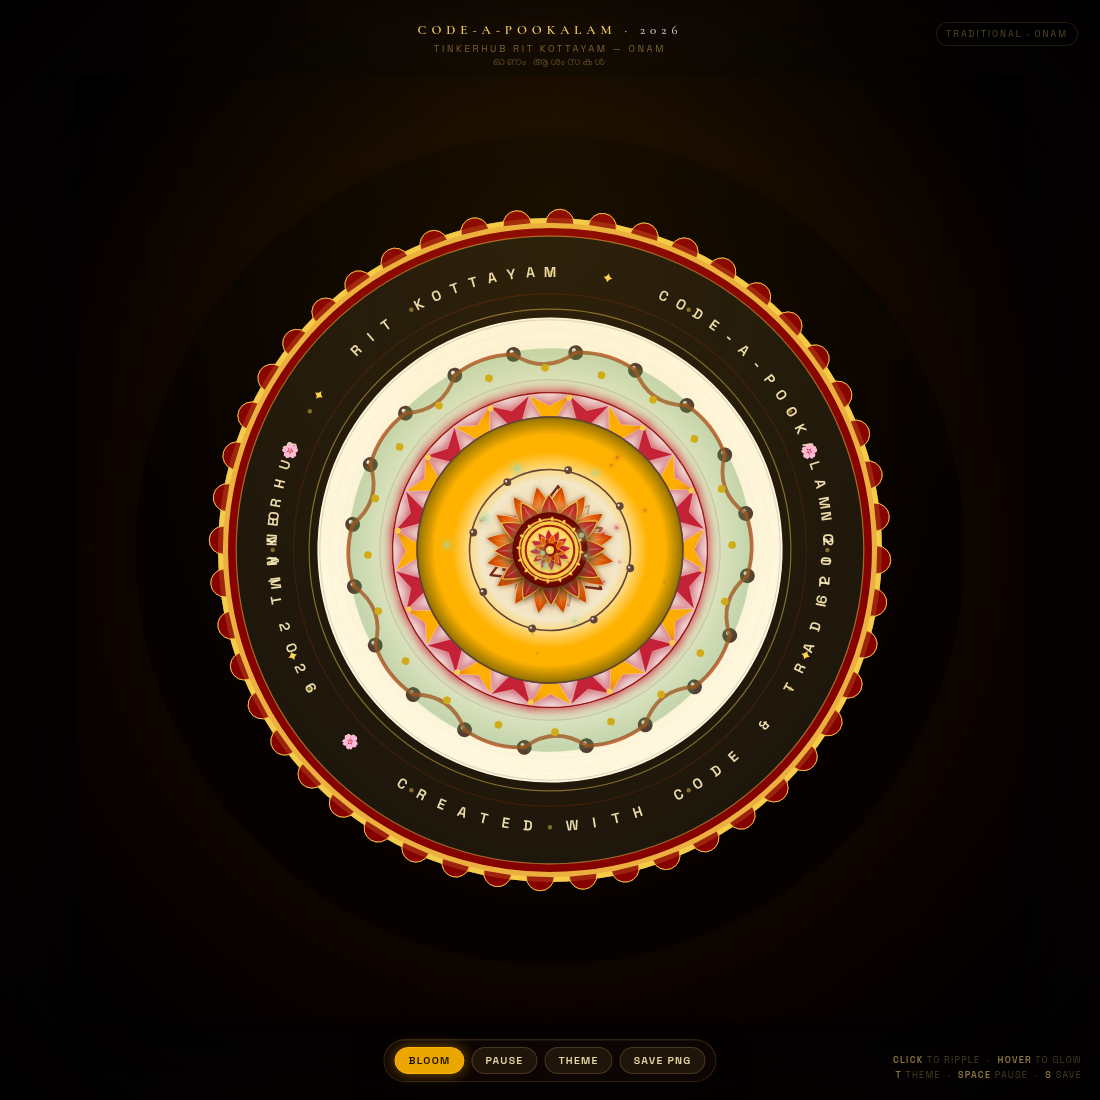
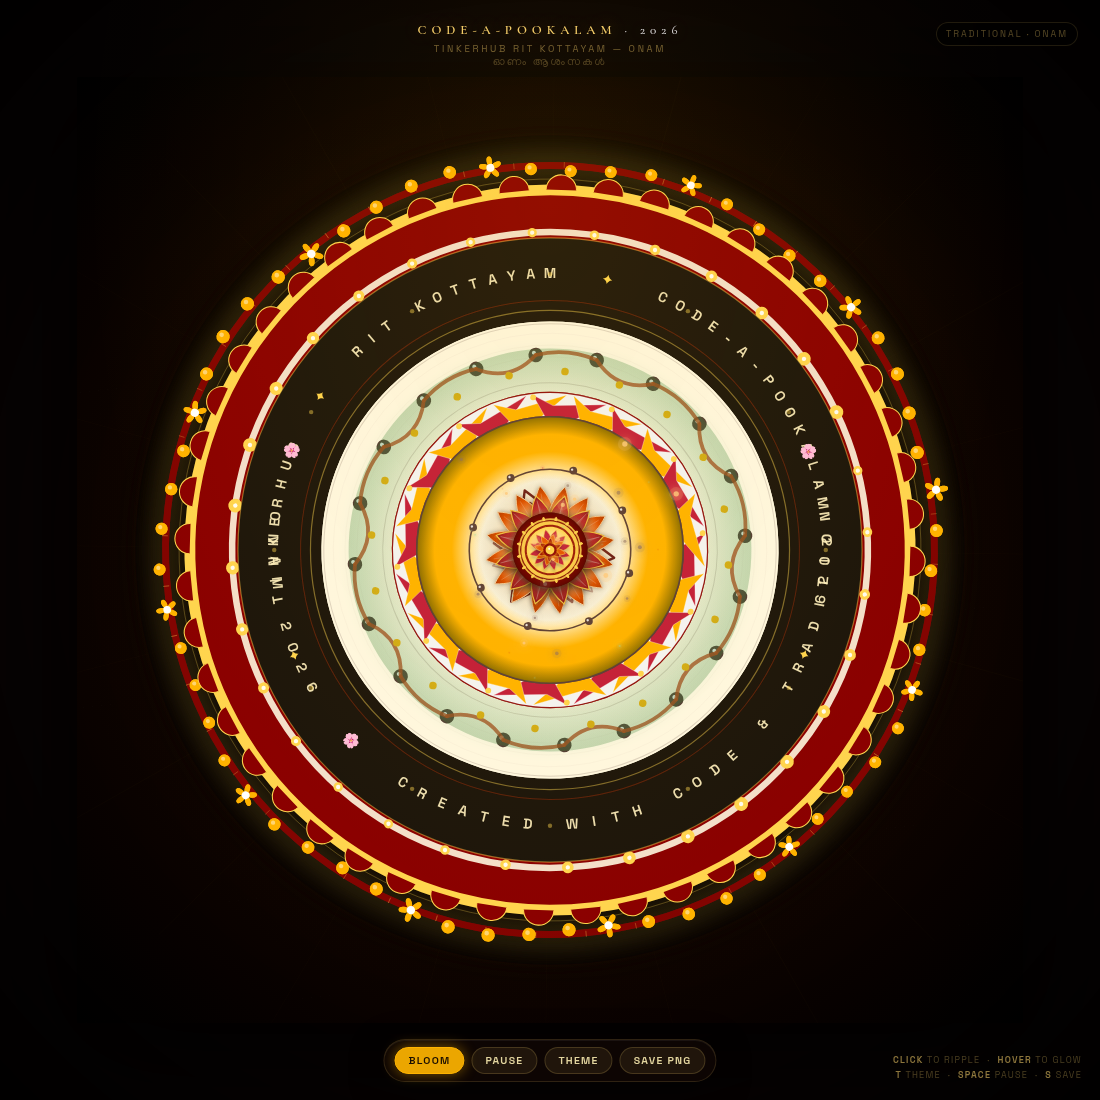
ANIMATE ALL — inner CCW: center gear + 3-layer lotus CCW, petals CCW, Sri-Yantra CCW, diamond+pulli+scallop+outer all CCW + pulsate (1141 LOC)

Changed region(s): [[0.1236, 0.1236, 0.8655, 0.8655]]

diff --git a/index.html b/index.html
@@ -287,8 +287,8 @@ function drawCenter(cx,cy,r,t,c){
   X.fillStyle = radialGrad(cx,cy, r*0.2, r, [[0,'#a80000'],[0.6,c.f],[1,'#5a0000']]);
   X.beginPath(); X.arc(cx,cy,r,0,Math.PI*2); X.fill();
   X.shadowColor='transparent';
-  // TinkerHub gear ring — 16 teeth rotating around center (maker identity, subtle)
-  X.save(); X.translate(cx,cy); X.rotate(frame*0.008);
+  // TinkerHub gear ring — 16 teeth COUNTER-CLOCKWISE (inner)
+  X.save(); X.translate(cx,cy); X.rotate(-frame*0.009);
   X.strokeStyle='rgba(255,213,79,0.85)'; X.lineWidth=r*0.045; X.fillStyle='rgba(255,213,79,0.12)';
   X.beginPath(); X.arc(0,0,r*0.82,0,Math.PI*2); X.fill(); X.stroke();
   // gear teeth
@@ -310,11 +310,11 @@ function drawCenter(cx,cy,r,t,c){
   // inner cream disc
   X.fillStyle = radialGrad(cx,cy,0,r*0.62, [[0,'#FFFDE7'],[0.5,'#FFECB3'],[1,'#FFD54F']]);
   X.beginPath(); X.arc(cx,cy,r*0.62,0,Math.PI*2); X.fill();
-  // 3-layer lotus — outer 12, mid 8, inner 6 (dense, not boring)
+  // 3-layer lotus — ALL COUNTER-CLOCKWISE, diff speeds for moiré
   const layers = [
-    {n:12, len:0.55, wid:0.13, col:'#C41E3A', rot: frame*0.006},
-    {n:8,  len:0.42, wid:0.11, col:'#E65100', rot: -frame*0.005},
-    {n:6,  len:0.32, wid:0.09, col:'#8B0000', rot: frame*0.004},
+    {n:12, len:0.55, wid:0.13, col:'#C41E3A', rot: -frame*0.007},
+    {n:8,  len:0.42, wid:0.11, col:'#E65100', rot: -frame*0.0055},
+    {n:6,  len:0.32, wid:0.09, col:'#8B0000', rot: -frame*0.009},
   ];
   layers.forEach(L=>{
     for(let i=0;i<L.n;i++){
@@ -346,7 +346,7 @@ function drawCenter(cx,cy,r,t,c){
 
 function drawPetals12(cx,cy,r,t,c){
   X.save(); X.globalAlpha=t;
-  const n=12, rot = frame*0.0045;
+  const n=12, rot = -frame*0.0055;
   for(let i=0;i<n;i++){
     const a=(i/n)*Math.PI*2 + rot;
     const dist = Math.hypot(mouse.x-cx, mouse.y-cy);
@@ -407,7 +407,7 @@ function drawYantra(cx,cy,r,t,c){
   X.beginPath(); X.arc(cx,cy,r*0.60,0,Math.PI*2); X.stroke();
   // Sri-Yantra approximation — 9 interlocked triangles (4 up, 5 down)
   // This is the dense sacred geometry that screams "code complexity"
-  X.save(); X.translate(cx,cy); X.rotate(frame*0.0018);
+  X.save(); X.translate(cx,cy); X.rotate(-frame*0.0024);
   const tri = (size, up, alpha, lw)=>{
     X.save();
     if(!up) X.rotate(Math.PI);
@@ -441,10 +441,10 @@ function drawYantra(cx,cy,r,t,c){
   });
   X.restore();
   X.restore();
-  // binding dots — where triangles intersect (8 outer + 4 inner)
+  // binding dots — CCW
   X.fillStyle=c.s;
   for(let i=0;i<8;i++){
-    const a=(i/8)*Math.PI*2 + frame*0.0025;
+    const a=(i/8)*Math.PI*2 - frame*0.0032;
     const rad = r*(0.60 + Math.sin(frame*0.008+i)*0.015);
     X.beginPath(); X.arc(cx+Math.cos(a)*rad, cy+Math.sin(a)*rad, r*0.029,0,Math.PI*2); X.fill();
     // highlight
@@ -464,8 +464,9 @@ function drawDiamondBand(cx,cy,r,t,c){
   X.fillStyle=c.f; X.beginPath(); X.arc(cx,cy,r*0.96,0,Math.PI*2); X.fill();
   X.fillStyle='rgba(0,0,0,0.04)'; X.beginPath(); X.arc(cx,cy,r*0.96,0,Math.PI*2); X.fill();
   const n=24;
+  const rot = -frame*0.0018; // CCW
   for(let i=0;i<n;i++){
-    const a=(i/n)*Math.PI*2, na=((i+0.5)/n)*Math.PI*2;
+    const a=(i/n)*Math.PI*2 + rot, na=((i+0.5)/n)*Math.PI*2 + rot;
     const inner=r*0.71, outer=r*0.95, midR=r*0.83;
     // diamond
     X.beginPath();
@@ -492,7 +493,7 @@ function drawDiamondBand(cx,cy,r,t,c){
 
 function drawLargeLotus(cx,cy,r,t,c){
   X.save(); X.globalAlpha=t;
-  const n=24, rot=frame*0.0022;
+  const n=24, rot=-frame*0.0035;
   // subtle radial backdrop
   const bg = radialGrad(cx,cy,r*0.3,r, [[0,'rgba(255,255,255,0)'],[0.7,'rgba(46,125,50,0.06)'],[1,'rgba(46,125,50,0.14)']]);
   X.fillStyle=bg; X.beginPath(); X.arc(cx,cy,r,0,Math.PI*2); X.fill();
@@ -537,11 +538,12 @@ function drawPulliKolam(cx,cy,r,t,c){
     X.beginPath(); X.arc(cx,cy,r*(0.82+i*0.05),0,Math.PI*2); X.stroke();
   }
   const n=20, dotR=r*0.031, orbitR=r*0.83;
-  // dots
+  const rot = -frame*0.0015; // CCW
+  // dots — counter-clockwise
   X.fillStyle='#4E342E';
   const pts=[];
   for(let i=0;i<n;i++){
-    const a=(i/n)*Math.PI*2;
+    const a=(i/n)*Math.PI*2 + rot;
     const x=cx+Math.cos(a)*orbitR, y=cy+Math.sin(a)*orbitR;
     pts.push({x,y,a});
     X.beginPath(); X.arc(x,y,dotR,0,Math.PI*2); X.fill();
@@ -568,11 +570,17 @@ function drawPulliKolam(cx,cy,r,t,c){
   X.strokeStyle='rgba(78,52,46,0.18)'; X.lineWidth=1;
   X.beginPath(); X.arc(cx,cy,r*0.71,0,Math.PI*2); X.stroke();
   X.beginPath(); X.arc(cx,cy,r*0.96,0,Math.PI*2); X.stroke();
-  // tiny marigold dots on kolam path
+  // tiny marigold dots on kolam path — also CCW
   X.fillStyle='#FFB300';
   for(let i=0;i<n;i++){
-    const a=((i+0.5)/n)*Math.PI*2;
+    const a=((i+0.5)/n)*Math.PI*2 + rot;
     dot(cx+Math.cos(a)*r*0.76, cy+Math.sin(a)*r*0.76, r*0.016);
+  }
+  // pulsating inner dots
+  X.fillStyle=`rgba(255,179,0,${0.6+Math.sin(frame*0.05)*0.3})`;
+  for(let i=0;i<n;i++){
+    const a=(i/n)*Math.PI*2 + rot;
+    dot(cx+Math.cos(a)*r*0.62, cy+Math.sin(a)*r*0.62, r*0.012);
   }
   X.restore();
 }
@@ -719,33 +727,36 @@ function drawTextRing(cx,cy,r,t,c){
 
 function drawScallop(cx,cy,r,t,c){
   X.save(); X.globalAlpha=t;
-  // base maroon
-  X.fillStyle=c.f; X.beginPath(); X.arc(cx,cy,r*0.985,0,Math.PI*2); X.fill();
-  // inner cream line
+  // base maroon — pulsating
+  const pulse = 1 + Math.sin(frame*0.018)*0.015;
+  X.fillStyle=c.f; X.beginPath(); X.arc(cx,cy,r*0.985*pulse,0,Math.PI*2); X.fill();
+  // inner cream line — CCW slow
+  const rotScallop = -frame*0.0009;
   X.strokeStyle='rgba(255,248,225,0.9)'; X.lineWidth=r*0.018; X.beginPath(); X.arc(cx,cy,r*0.88,0,Math.PI*2); X.stroke();
   // outer gold rim
-  X.strokeStyle=c.s; X.lineWidth=r*0.03; X.beginPath(); X.arc(cx,cy,r*0.985,0,Math.PI*2); X.stroke();
-  // scallops: 48 outward arches
+  X.strokeStyle=c.s; X.lineWidth=r*0.03; X.beginPath(); X.arc(cx,cy,r*0.985*pulse,0,Math.PI*2); X.stroke();
+  // scallops: 48 outward arches — CCW
   const n=48;
   X.fillStyle=c.f; X.strokeStyle=c.s; X.lineWidth=1;
   for(let i=0;i<n;i++){
-    const a=(i/n)*Math.PI*2;
-    const sx=cx+Math.cos(a)*r*0.985, sy=cy+Math.sin(a)*r*0.985;
+    const a=(i/n)*Math.PI*2 + rotScallop;
+    const sx=cx+Math.cos(a)*r*0.985*pulse, sy=cy+Math.sin(a)*r*0.985*pulse;
     // small outer circle scallop
     X.beginPath();
     X.arc(sx, sy, r*0.042, a-Math.PI/2, a+Math.PI/2);
     // alternatively simple dot scallop
     X.fill(); X.stroke();
   }
-  // gold dots on inner rim
+  // gold dots on inner rim — CCW
   X.fillStyle=c.s;
   for(let i=0;i<32;i++){
-    const a=(i/32)*Math.PI*2;
-    dot(cx+Math.cos(a)*r*0.88, cy+Math.sin(a)*r*0.88, r*0.016);
+    const a=(i/32)*Math.PI*2 + rotScallop*1.2;
+    const pulseDot = 1 + Math.sin(frame*0.04 + i*0.5)*0.2;
+    dot(cx+Math.cos(a)*r*0.88, cy+Math.sin(a)*r*0.88, r*0.016*pulseDot);
   }
   X.fillStyle='rgba(255,255,255,0.92)';
   for(let i=0;i<32;i++){
-    const a=(i/32)*Math.PI*2;
+    const a=(i/32)*Math.PI*2 + rotScallop*1.2;
     dot(cx+Math.cos(a)*r*0.88, cy+Math.sin(a)*r*0.88, r*0.006);
   }
   X.restore();
@@ -754,11 +765,14 @@ function drawScallop(cx,cy,r,t,c){
 function drawDotsOuter(cx,cy,r,t,c){
   X.save(); X.globalAlpha=t*0.95;
   const n=60;
+  const rotOuter = -frame*0.0022; // CCW — all parts CCW
   for(let i=0;i<n;i++){
-    const a=(i/n)*Math.PI*2 + frame*0.0035;
+    const a=(i/n)*Math.PI*2 + rotOuter;
+    // pulsate radius
+    const pulse = 1 + Math.sin(frame*0.02 + i*0.3)*0.06;
     const isBig=i%5===0;
-    const rad=isBig? r*0.032 : r*0.016;
-    const dist=r*0.985;
+    const rad=(isBig? r*0.032 : r*0.016) * pulse;
+    const dist=r*0.985 * (1 + Math.sin(frame*0.015 + i)*0.015);
     const x=cx+Math.cos(a)*dist, y=cy+Math.sin(a)*dist;
     // petal-like small flower every 5
     if(isBig){
@@ -784,24 +798,30 @@ function drawDotsOuter(cx,cy,r,t,c){
 
 function drawOutermost(cx,cy,r,t,c){
   X.save(); X.globalAlpha=t;
-  // ultra thin outer gold ring with glow
-  X.shadowColor='rgba(255,213,79,0.55)'; X.shadowBlur=r*0.08;
+  // ultra thin outer gold ring with glow — pulsating CCW
+  const pulseOut = 1 + Math.sin(frame*0.022)*0.018;
+  const rotOut = -frame*0.0012;
+  X.shadowColor='rgba(255,213,79,0.55)'; X.shadowBlur=r*0.08*pulseOut;
   X.strokeStyle=c.s; X.lineWidth=r*0.018;
-  X.beginPath(); X.arc(cx,cy,r,0,Math.PI*2); X.stroke();
+  X.beginPath(); X.arc(cx,cy,r*pulseOut,0,Math.PI*2); X.stroke();
   X.shadowColor='transparent';
-  // second inner hairline
+  // second inner hairline — CCW
   X.strokeStyle='rgba(255,213,79,0.28)'; X.lineWidth=0.8;
-  X.beginPath(); X.arc(cx,cy,r*0.965,0,Math.PI*2); X.stroke();
-  // sparkle ticks
+  X.beginPath(); X.arc(cx,cy,r*0.965*pulseOut,0,Math.PI*2); X.stroke();
+  // sparkle ticks — CCW
   X.strokeStyle='rgba(255,213,79,0.55)'; X.lineWidth=0.9;
   for(let i=0;i<48;i++){
-    const a=(i/48)*Math.PI*2;
-    const r0=r*0.995, r1=r*1.01;
+    const a=(i/48)*Math.PI*2 + rotOut;
+    const r0=r*0.995*pulseOut, r1=r*1.01*pulseOut;
+    // twinkle
+    const alpha = 0.5 + Math.sin(frame*0.08 + i*0.7)*0.5;
+    X.globalAlpha = t * (0.6 + alpha*0.4);
     X.beginPath();
     X.moveTo(cx+Math.cos(a)*r0, cy+Math.sin(a)*r0);
     X.lineTo(cx+Math.cos(a)*r1, cy+Math.sin(a)*r1);
     X.stroke();
   }
+  X.globalAlpha=t;
   X.restore();
 }
 
@@ -949,8 +969,8 @@ function drawParticles(){
 function render(){
   frame++;
   if(!paused){
-    progress+=0.0048*speed;
-    bloomPhase = Math.min(1, bloomPhase + 0.014*speed);
+    progress+=0.0065*speed;
+    bloomPhase = Math.min(1, bloomPhase + 0.016*speed);
     if(progress>1.22) progress=1.22;
     // auto cycle theme every ~14s after bloom for extra dynamism
     if(progress>=1 && frame%840===0){
